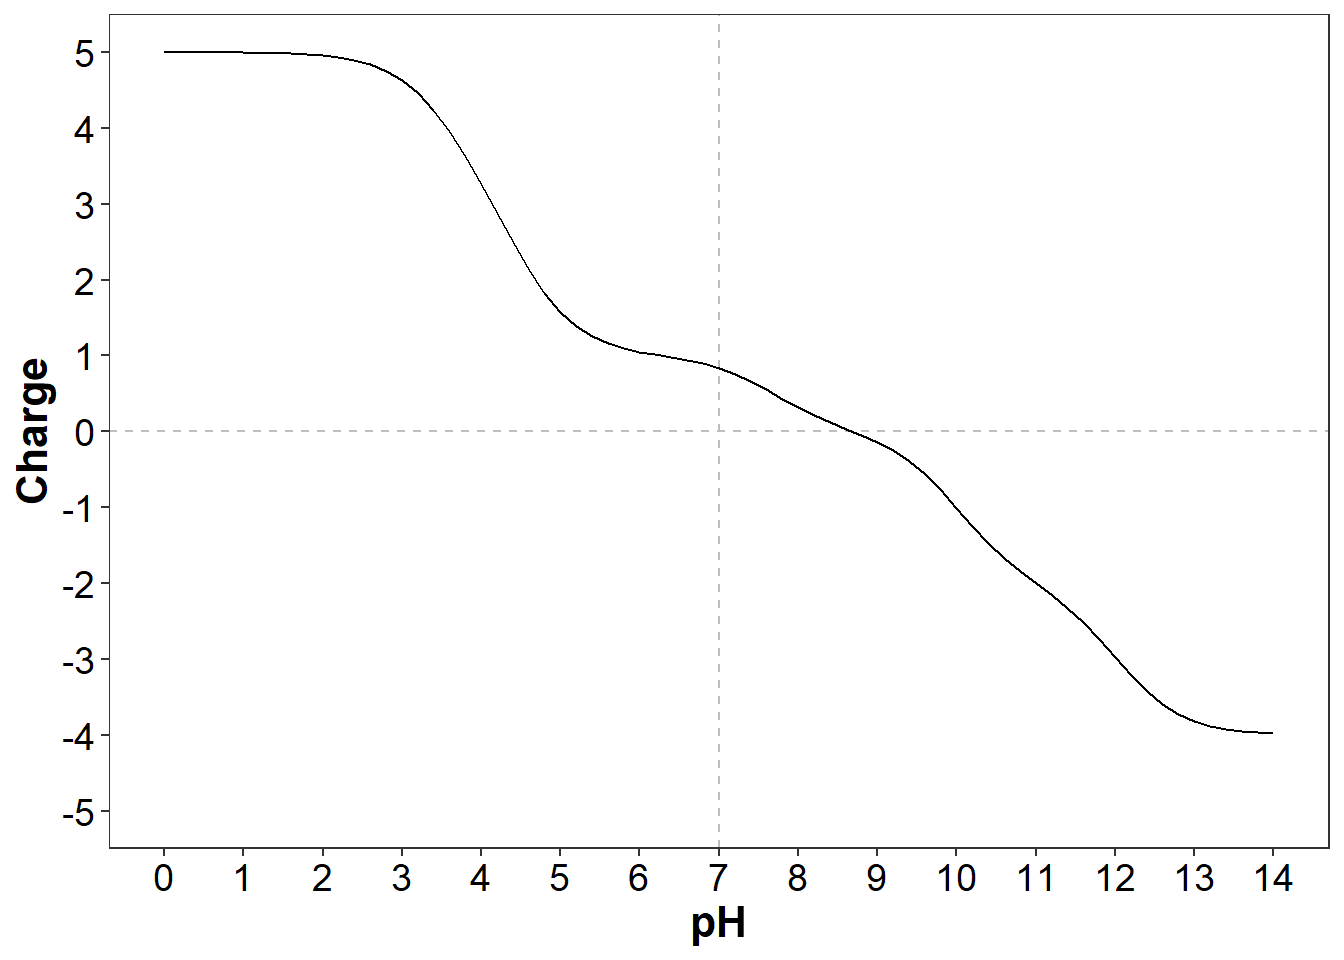
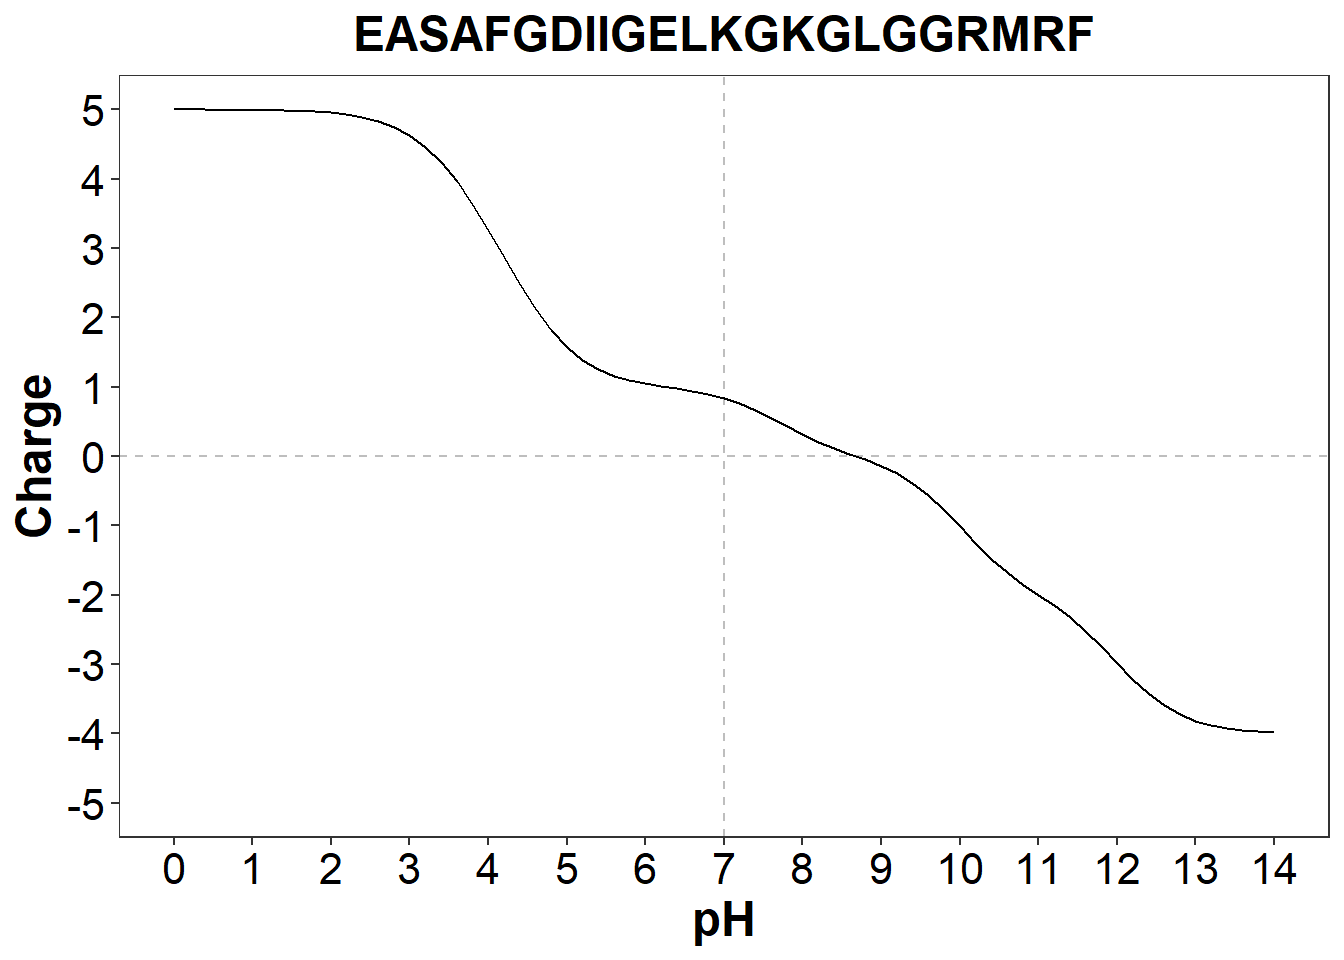
Update

diff --git a/docs/Academic_work/posts/Pep_net_charge.html b/docs/Academic_work/posts/Pep_net_charge.html
@@ -309,7 +309,7 @@ pH = pK_a + log \frac{[A^-]}{[HA]}
 <section id="using-the-a--and-ha-fractions-to-calculate-overall-charge" class="level3" data-number="2.3">
 <h3 data-number="2.3" class="anchored" data-anchor-id="using-the-a--and-ha-fractions-to-calculate-overall-charge"><span class="header-section-number">2.3</span> Using the <span class="math inline">\([A^-]\)</span> and <span class="math inline">\([HA]\)</span> fractions to calculate overall charge</h3>
 <p>In <a href="#sec-ion_groups" class="quarto-xref">Section&nbsp;2.1</a>, the distinction was made between the ionizable groups within a peptide that have a <strong>negative charge when dissociated</strong> versus those that have a <strong>positive charge when undissociated</strong>. Using the formulas derived from the Henderson-Hasselbalch equation, each fraction can now be calculated.</p>
-<p>Let’s take the C-terminus as an example: the <span class="math inline">\(pK_a\)</span> of an amino acid carboxyl group is ~3.5, and has a negative charge when dissociated, so the formula for <span class="math inline">\(A^-\)</span> is used to calculate the fraction of dissociated molecules. Taking a pH of 7 as example, this gives:</p>
+<p>Let’s take the C-terminus as an example: the <span class="math inline">\(pK_a\)</span> of an amino acid carboxyl group is ~3.5, and has a negative charge when dissociated, so the formula for <span class="math inline">\([A^-]\)</span> is used to calculate the fraction of dissociated molecules. With a pH of 7 as example, this gives:</p>
 <p><span id="eq-example_diss"><span class="math display">\[
 \begin{align*}
 [A^-] &amp;= \frac{1}{10^{pK_a-pH}+1}
@@ -331,7 +331,7 @@ pH = pK_a + log \frac{[A^-]}{[HA]}
 \end{align*}
 \tag{8}\]</span></span></p>
 <p>With 76% of the molecules in the positively charged nondissociated form (NH<sub>3</sub><sup>+</sup>), the mean charge <span class="math inline">\(Z_{N-term}\)</span> equals <span class="math inline">\(0.76 \times 1 = 0.76\)</span> at pH = 7. Again, the 24% that are in the dissociated NH<sub>2</sub> form do not carry a charge, and therefore do not contribute.</p>
-<p>If the peptide has no amino acids with ionizable side chains, <a href="#eq-simple_Z" class="quarto-xref">Equation&nbsp;1</a> can be simplified to calculate the overall charge of the peptide at pH = 7:</p>
+<p>Calculating the charges carried by the amino acid side chains is analogous. For this example, the peptide has no amino acids with ionizable side chains, so <a href="#eq-simple_Z" class="quarto-xref">Equation&nbsp;1</a> can be simplified to calculate the overall charge of the peptide at pH = 7:</p>
 <p><span id="eq-example_pep_Z"><span class="math display">\[
 \begin{align*}
 Z_{peptide} &amp;= Z_{N-term} + Z_{C-term}
@@ -352,12 +352,11 @@ Z^+ &amp;= \frac{1}{10^{pH-pK_a}+1}
 </section>
 <section id="the-pka-values-of-the-termini-and-amino-acid-side-chains" class="level3" data-number="2.4">
 <h3 data-number="2.4" class="anchored" data-anchor-id="the-pka-values-of-the-termini-and-amino-acid-side-chains"><span class="header-section-number">2.4</span> The pK<sub>a</sub> values of the termini and amino acid side chains</h3>
-<p>There are different sources available for the pKa values of N- and C-termini of amino acids and their side chains. From experience, the resource provided by <span class="citation" data-cites="bjellqvist1993">Bjellqvist et al. (<a href="#ref-bjellqvist1993" role="doc-biblioref">1993</a>)</span> has given the best results, with predicted charge states that correspond with my own empirically obtained data.</p>
+<p>There are different sources available for the pKa values of N- and C-termini of amino acids and their side chains. From experience, the resource provided by <span class="citation" data-cites="bjellqvist1993">Bjellqvist et al. (<a href="#ref-bjellqvist1993" role="doc-biblioref">1993</a>)</span> has given the best results, with predicted charge states that correspond well with my own empirically obtained data.</p>
 <div class="cell">
-<div class="sourceCode cell-code" id="cb2"><pre class="sourceCode r code-with-copy"><code class="sourceCode r"><span id="cb2-1"><a href="#cb2-1" aria-hidden="true" tabindex="-1"></a></span>
-<span id="cb2-2"><a href="#cb2-2" aria-hidden="true" tabindex="-1"></a>df_bjellqvist <span class="ot">&lt;-</span> <span class="fu">read_csv</span>(<span class="st">"pK values - Bjellqvist.csv"</span>)</span>
-<span id="cb2-3"><a href="#cb2-3" aria-hidden="true" tabindex="-1"></a>df_bjellqvist <span class="ot">&lt;-</span> <span class="fu">column_to_rownames</span>(df_bjellqvist, <span class="at">var =</span> <span class="st">"Single-letter code"</span>)</span>
-<span id="cb2-4"><a href="#cb2-4" aria-hidden="true" tabindex="-1"></a><span class="fu">datatable</span>(df_bjellqvist)</span></code><button title="Copy to Clipboard" class="code-copy-button"><i class="bi"></i></button></pre></div>
+<div class="sourceCode cell-code" id="cb2"><pre class="sourceCode r code-with-copy"><code class="sourceCode r"><span id="cb2-1"><a href="#cb2-1" aria-hidden="true" tabindex="-1"></a>df_bjellqvist <span class="ot">&lt;-</span> <span class="fu">read_csv</span>(<span class="st">"pK values - Bjellqvist.csv"</span>)</span>
+<span id="cb2-2"><a href="#cb2-2" aria-hidden="true" tabindex="-1"></a>df_bjellqvist <span class="ot">&lt;-</span> <span class="fu">column_to_rownames</span>(df_bjellqvist, <span class="at">var =</span> <span class="st">"Single-letter code"</span>)</span>
+<span id="cb2-3"><a href="#cb2-3" aria-hidden="true" tabindex="-1"></a><span class="fu">datatable</span>(df_bjellqvist)</span></code><button title="Copy to Clipboard" class="code-copy-button"><i class="bi"></i></button></pre></div>
 <div id="tbl-Bjellqvist_pKa" class="cell quarto-float quarto-figure quarto-figure-center anchored">
 <figure class="quarto-float quarto-float-tbl figure">
 <figcaption class="quarto-float-caption-top quarto-float-caption quarto-float-tbl" id="tbl-Bjellqvist_pKa-caption-0ceaefa1-69ba-4598-a22c-09a6ac19f8ca">
@@ -365,8 +364,8 @@ Table&nbsp;1: Bjellqvist pK<sub>a</sub> values for termini and side chains of al
 </figcaption>
 <div aria-describedby="tbl-Bjellqvist_pKa-caption-0ceaefa1-69ba-4598-a22c-09a6ac19f8ca">
 <div class="cell-output-display">
-<div class="datatables html-widget html-fill-item" id="htmlwidget-c064067a08e009b0688f" style="width:100%;height:auto;"></div>
-<script type="application/json" data-for="htmlwidget-c064067a08e009b0688f">{"x":{"filter":"none","vertical":false,"data":[["A","R","N","D","C","E","Q","G","H","I","L","K","M","F","P","S","T","W","Y","V"],["Alanine","Arginine","Asparagine","Aspartic acid","Cysteine","Glutamic acid","Glutamine","Glycine","Histidine","Isoleucine","Leucine","Lysine","Methionine","Phenylalanine","Proline","Serine","Threonine","Tryptophan","Tyrosine","Valine"],["Ala","Arg","Asn","Asp","Cys","Glu","Gln","Gly","His","Ile","Leu","Lys","Met","Phe","Pro","Ser","Thr","Trp","Tyr","Val"],[3.55,3.55,3.55,4.55,3.55,4.75,3.55,3.55,3.55,3.55,3.55,3.55,3.55,3.55,3.55,3.55,3.55,3.55,3.55,3.55],[7.59,7.5,7.5,7.5,7.5,7.7,7.5,7.5,7.5,7.5,7.5,7.5,7,7.5,8.36,6.93,6.82,7.5,7.5,7.44],[null,12,null,4.05,9,4.45,null,null,5.98,null,null,10,null,null,null,null,null,null,10,null]],"container":"<table class=\"display\">\n  <thead>\n    <tr>\n      <th> <\/th>\n      <th>Name<\/th>\n      <th>Abbreviation<\/th>\n      <th>pK1<\/th>\n      <th>pK2<\/th>\n      <th>pKr<\/th>\n    <\/tr>\n  <\/thead>\n<\/table>","options":{"columnDefs":[{"className":"dt-right","targets":[3,4,5]},{"orderable":false,"targets":0},{"name":" ","targets":0},{"name":"Name","targets":1},{"name":"Abbreviation","targets":2},{"name":"pK1","targets":3},{"name":"pK2","targets":4},{"name":"pKr","targets":5}],"order":[],"autoWidth":false,"orderClasses":false}},"evals":[],"jsHooks":[]}</script>
+<div class="datatables html-widget html-fill-item" id="htmlwidget-c5e042038b51df181ee0" style="width:100%;height:auto;"></div>
+<script type="application/json" data-for="htmlwidget-c5e042038b51df181ee0">{"x":{"filter":"none","vertical":false,"data":[["A","R","N","D","C","E","Q","G","H","I","L","K","M","F","P","S","T","W","Y","V"],["Alanine","Arginine","Asparagine","Aspartic acid","Cysteine","Glutamic acid","Glutamine","Glycine","Histidine","Isoleucine","Leucine","Lysine","Methionine","Phenylalanine","Proline","Serine","Threonine","Tryptophan","Tyrosine","Valine"],["Ala","Arg","Asn","Asp","Cys","Glu","Gln","Gly","His","Ile","Leu","Lys","Met","Phe","Pro","Ser","Thr","Trp","Tyr","Val"],[3.55,3.55,3.55,4.55,3.55,4.75,3.55,3.55,3.55,3.55,3.55,3.55,3.55,3.55,3.55,3.55,3.55,3.55,3.55,3.55],[7.59,7.5,7.5,7.5,7.5,7.7,7.5,7.5,7.5,7.5,7.5,7.5,7,7.5,8.36,6.93,6.82,7.5,7.5,7.44],[null,12,null,4.05,9,4.45,null,null,5.98,null,null,10,null,null,null,null,null,null,10,null]],"container":"<table class=\"display\">\n  <thead>\n    <tr>\n      <th> <\/th>\n      <th>Name<\/th>\n      <th>Abbreviation<\/th>\n      <th>pK1<\/th>\n      <th>pK2<\/th>\n      <th>pKr<\/th>\n    <\/tr>\n  <\/thead>\n<\/table>","options":{"columnDefs":[{"className":"dt-right","targets":[3,4,5]},{"orderable":false,"targets":0},{"name":" ","targets":0},{"name":"Name","targets":1},{"name":"Abbreviation","targets":2},{"name":"pK1","targets":3},{"name":"pK2","targets":4},{"name":"pKr","targets":5}],"order":[],"autoWidth":false,"orderClasses":false}},"evals":[],"jsHooks":[]}</script>
 </div>
 </div>
 </figure>
@@ -417,7 +416,7 @@ Table&nbsp;1: Bjellqvist pK<sub>a</sub> values for termini and side chains of al
 <span id="cb4-5"><a href="#cb4-5" aria-hidden="true" tabindex="-1"></a>df_pH <span class="ot">&lt;-</span> <span class="fu">tibble</span>(<span class="st">"pH"</span> <span class="ot">=</span> <span class="fu">seq</span>(<span class="dv">0</span>, <span class="dv">14</span>, <span class="fl">0.2</span>),</span>
 <span id="cb4-6"><a href="#cb4-6" aria-hidden="true" tabindex="-1"></a>                <span class="st">"Charge"</span> <span class="ot">=</span> <span class="fu">sapply</span>(pH, computeCharge, <span class="at">Peptide =</span> pept_1))</span>
 <span id="cb4-7"><a href="#cb4-7" aria-hidden="true" tabindex="-1"></a></span>
-<span id="cb4-8"><a href="#cb4-8" aria-hidden="true" tabindex="-1"></a><span class="co">#Set maximum of the pH axis</span></span>
+<span id="cb4-8"><a href="#cb4-8" aria-hidden="true" tabindex="-1"></a><span class="co">#Set maximum of the charge axis</span></span>
 <span id="cb4-9"><a href="#cb4-9" aria-hidden="true" tabindex="-1"></a>y_scale <span class="ot">&lt;-</span> <span class="fu">max</span>(<span class="fu">abs</span>(df_pH<span class="sc">$</span>Charge)) <span class="sc">%&gt;%</span> <span class="fu">ceiling</span>()</span>
 <span id="cb4-10"><a href="#cb4-10" aria-hidden="true" tabindex="-1"></a></span>
 <span id="cb4-11"><a href="#cb4-11" aria-hidden="true" tabindex="-1"></a><span class="co">#Plot</span></span>
@@ -427,13 +426,13 @@ Table&nbsp;1: Bjellqvist pK<sub>a</sub> values for termini and side chains of al
 <span id="cb4-15"><a href="#cb4-15" aria-hidden="true" tabindex="-1"></a>  <span class="fu">geom_line</span>(<span class="fu">aes</span>(<span class="at">x =</span> pH, <span class="at">y =</span> Charge)) <span class="sc">+</span></span>
 <span id="cb4-16"><a href="#cb4-16" aria-hidden="true" tabindex="-1"></a>  <span class="fu">scale_x_continuous</span>(<span class="at">limits =</span> <span class="fu">c</span>(<span class="dv">0</span>, <span class="dv">14</span>), <span class="at">breaks =</span> <span class="fu">seq</span>(<span class="dv">0</span>, <span class="dv">14</span>, <span class="dv">1</span>)) <span class="sc">+</span></span>
 <span id="cb4-17"><a href="#cb4-17" aria-hidden="true" tabindex="-1"></a>  <span class="fu">scale_y_continuous</span>(<span class="at">limits =</span> <span class="fu">c</span>(<span class="sc">-</span>y_scale, y_scale), <span class="at">breaks =</span> <span class="fu">seq</span>(<span class="sc">-</span>y_scale, y_scale, <span class="dv">1</span>)) <span class="sc">+</span></span>
-<span id="cb4-18"><a href="#cb4-18" aria-hidden="true" tabindex="-1"></a>  <span class="co">#labs(title = pept_1) +</span></span>
+<span id="cb4-18"><a href="#cb4-18" aria-hidden="true" tabindex="-1"></a>  <span class="fu">labs</span>(<span class="at">title =</span> pept_1) <span class="sc">+</span></span>
 <span id="cb4-19"><a href="#cb4-19" aria-hidden="true" tabindex="-1"></a>  <span class="fu">theme_bw</span>() <span class="sc">+</span></span>
 <span id="cb4-20"><a href="#cb4-20" aria-hidden="true" tabindex="-1"></a>  <span class="fu">theme</span>(<span class="at">panel.grid =</span> <span class="fu">element_blank</span>(),</span>
 <span id="cb4-21"><a href="#cb4-21" aria-hidden="true" tabindex="-1"></a>        <span class="at">legend.position =</span> <span class="st">"none"</span>,</span>
-<span id="cb4-22"><a href="#cb4-22" aria-hidden="true" tabindex="-1"></a>        <span class="at">axis.text =</span> <span class="fu">element_text</span>(<span class="at">size =</span> <span class="dv">14</span>, <span class="at">color =</span> <span class="st">"black"</span>),</span>
-<span id="cb4-23"><a href="#cb4-23" aria-hidden="true" tabindex="-1"></a>        <span class="at">axis.title =</span> <span class="fu">element_text</span>(<span class="at">size =</span> <span class="dv">16</span>, <span class="at">face =</span> <span class="st">"bold"</span>),</span>
-<span id="cb4-24"><a href="#cb4-24" aria-hidden="true" tabindex="-1"></a>        <span class="at">plot.title =</span> <span class="fu">element_text</span>(<span class="at">hjust =</span> <span class="fl">0.5</span>, <span class="at">size =</span> <span class="dv">16</span>, <span class="at">face =</span> <span class="st">"bold"</span>))</span></code><button title="Copy to Clipboard" class="code-copy-button"><i class="bi"></i></button></pre></div>
+<span id="cb4-22"><a href="#cb4-22" aria-hidden="true" tabindex="-1"></a>        <span class="at">axis.text =</span> <span class="fu">element_text</span>(<span class="at">size =</span> <span class="dv">16</span>, <span class="at">color =</span> <span class="st">"black"</span>),</span>
+<span id="cb4-23"><a href="#cb4-23" aria-hidden="true" tabindex="-1"></a>        <span class="at">axis.title =</span> <span class="fu">element_text</span>(<span class="at">size =</span> <span class="dv">18</span>, <span class="at">face =</span> <span class="st">"bold"</span>),</span>
+<span id="cb4-24"><a href="#cb4-24" aria-hidden="true" tabindex="-1"></a>        <span class="at">plot.title =</span> <span class="fu">element_text</span>(<span class="at">hjust =</span> <span class="fl">0.5</span>, <span class="at">size =</span> <span class="dv">18</span>, <span class="at">face =</span> <span class="st">"bold"</span>))</span></code><button title="Copy to Clipboard" class="code-copy-button"><i class="bi"></i></button></pre></div>
 <div class="cell-output-display">
 <div>
 <figure class="figure">

diff --git a/docs/Academic_work/academic_work.html b/docs/Academic_work/academic_work.html
@@ -209,7 +209,7 @@ window.Quarto = {
 
 <div class="quarto-listing quarto-listing-container-default" id="listing-listing">
 <div class="list quarto-listing-default">
-<div class="quarto-post image-right" data-index="0" data-listing-date-sort="1722031200000" data-listing-file-modified-sort="1722209969440" data-listing-date-modified-sort="NaN" data-listing-reading-time-sort="6" data-listing-word-count-sort="1195">
+<div class="quarto-post image-right" data-index="0" data-listing-date-sort="1722031200000" data-listing-file-modified-sort="1722210978284" data-listing-date-modified-sort="NaN" data-listing-reading-time-sort="7" data-listing-word-count-sort="1211">
 <div class="thumbnail">
 <p><a href="../Academic_work/posts/Pep_net_charge.html" class="no-external"></a></p><a href="../Academic_work/posts/Pep_net_charge.html" class="no-external">
 <p class="card-img-top"><img src="posts\Pep_net_charge_files\figure-html\unnamed-chunk-4-1.png"  class="thumbnail-image card-img"/></p>
